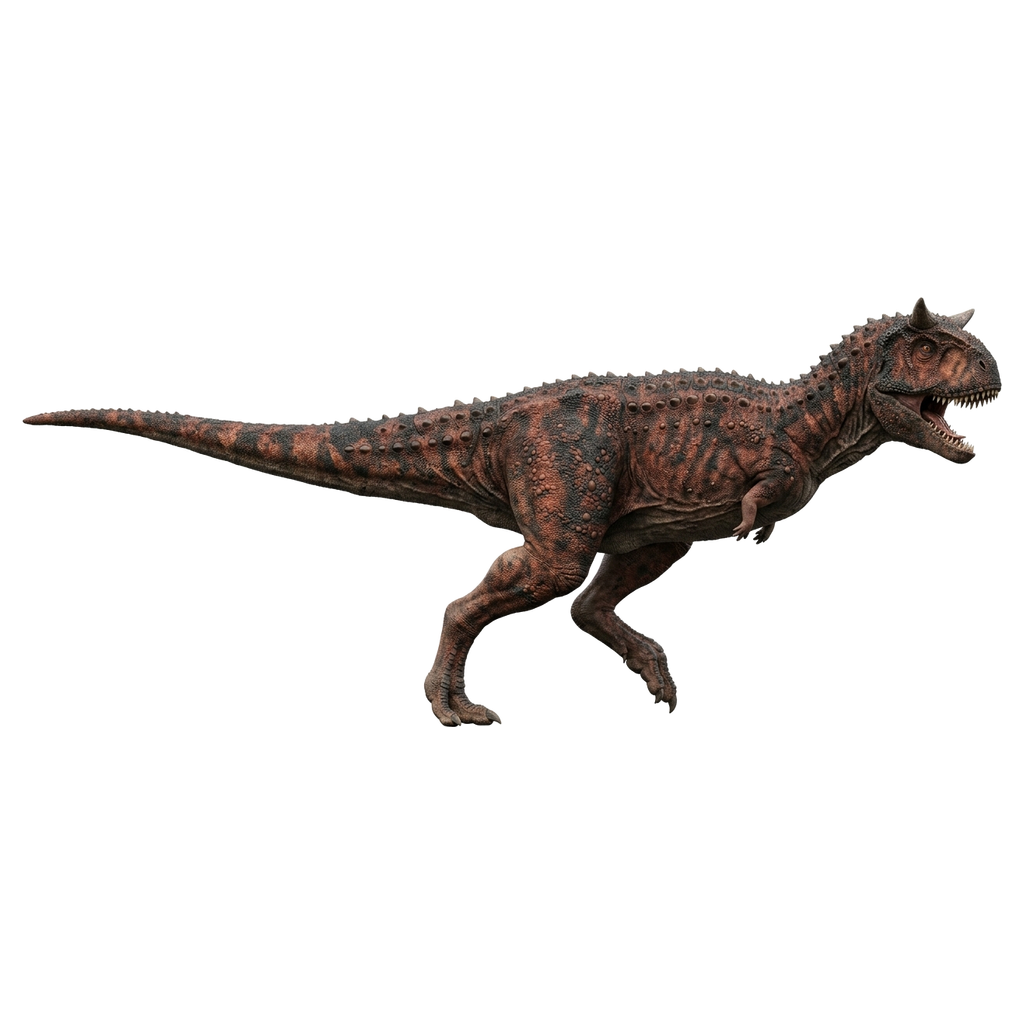
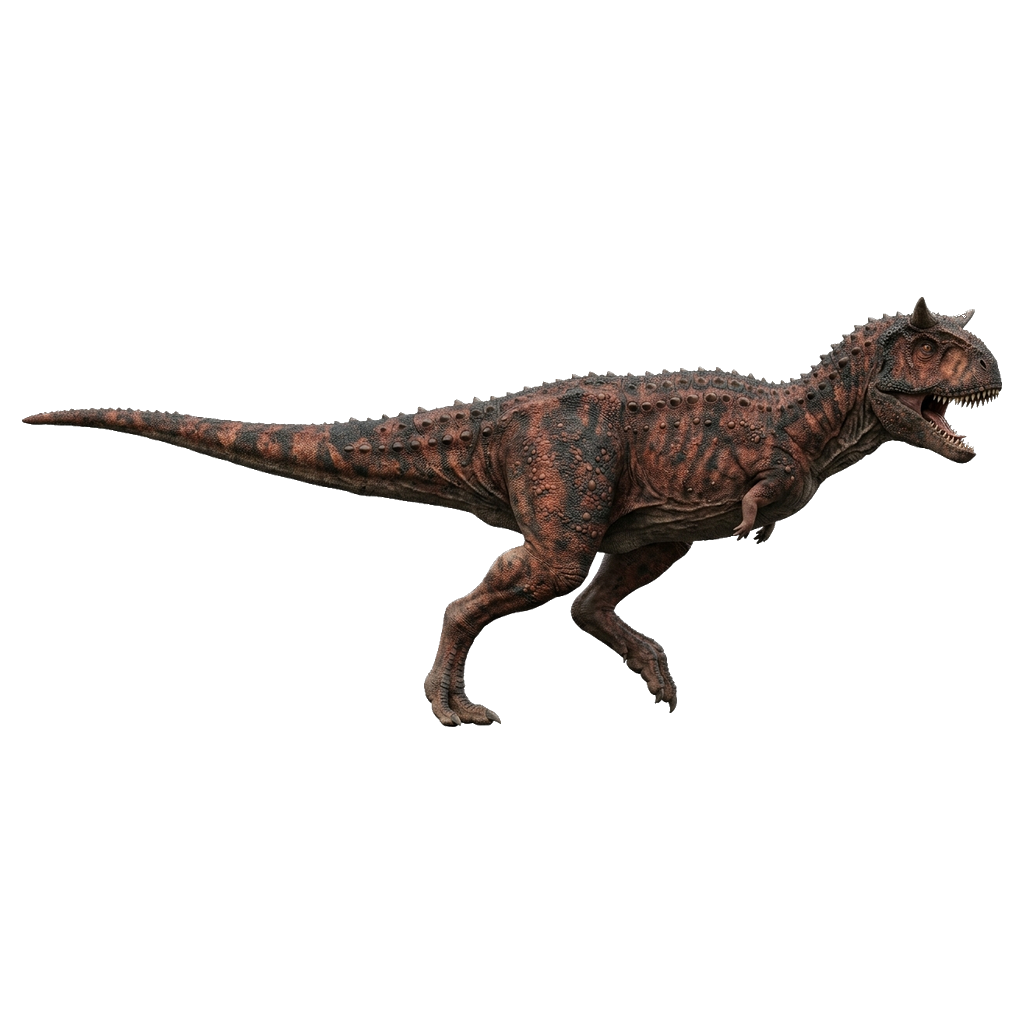
fix: テリジノサウルスの上部見切れ解消（実体描画全高連動）およびカルノタウルス・ディロフォサウルス・テリジノサウルスのエッジ白残り除去

diff --git a/docs/tasks/archive.md b/docs/tasks/archive.md
@@ -19,15 +19,20 @@
 
 ## ✅ 完了済みタスク (Done)
 
-- [x] **リアル対決モード恐竜5種（カルノタウルス、テリジノサウルス、ディロフォサウルス、フクイラプトル、フタバサウルス）のリアル対決アセット追加 ＆ 実寸1:1同期・宿命の対決プリセット拡充** (2026/11/22)
+- [x] **リアル対決モード恐竜5種（カルノタウルス、テリジノサウルス、ディロフォサウルス、フクイラプトル、フタバサウルス）のリアル対決アセット追加 ＆ 実寸1:1同期・宿命の対決プリセット拡充 ＆ エッジ白残り完全除去・テリジノサウルス上部見切れ解消** (2026/11/22)
   - **新規5種のリアルCG透過アセット制作**:
     - カルノタウルス（`carnotaurus_battle.webp` / 目の上の角・極小前肢・疾走ポーズ）
     - テリジノサウルス（`therizinosaurus_battle.webp` / 1m超の巨大鎌爪・羽毛直立威嚇ポーズ）
     - ディロフォサウルス（`dilophosaurus_battle.webp` / 頭頂の二重トサカ・学術的羽毛スマートプロポーション）
     - フクイラプトル（`fukuiraptor_battle.webp` / 日本のメガラプトル類・鋭い第一指鉤爪）
     - フタバサウルス（`futabasaurus_battle.webp` / 日本の首長竜・長大な首とヒレ足の遊泳ポーズ）
+  - **エッジ白残り・輪郭モヤの完全除去（Lanczosリサンプリング白混入対策 ＆ 内部ポケット背景除去）**:
+    - Lanczos3縮小処理時に透明ピクセル（RGB=255）の白が半透明（a=1〜30）として周囲に約6,500px残留していた現象を特定・解消。
+    - 爪や腕・首周りの閉じた白背景ポケットの除去、透過ピクセルのRGB=0初期化、リサイズ後のポストクリーン処理（`a <= 45` ゼロ化、エッジ白色除去・背景色ブレンド最適化）を導入し、完全な背景透過を実現。
+  - **テリジノサウルス上部見切れ（オートフォーカス全高判定）の修正**:
+    - 腕を高く掲げた直立威嚇ポーズ（描画全高7.45m相当）のテリジノサウルスが、背の低い生物（アフリカゾウ3.2m等）との比較時に基準全高5.0mで計算されて上端が見切れていた問題を解消。
+    - 実体描画高さ（`drawnHeightPx`）を導入し、ステージのオートフォーカスが真の頭頂・爪先高さを認識してズーム比率を最適化（上部余白を確保し見切れゼロを達成）。
   - **4ch RGBAロスレス透過 ＆ 自動接地スキャン・実寸1:1同期**:
-    - `scratch/process_batch2_dinosaurs.mjs` により完全背景透過（Alpha=0）、AIマーク消去、1024x1024正方形化、精密自動接地スキャンを実施。
     - 公式全長（`realLength`）と描画全長が100%一致するように `BATTLE_ASSETS`（`contentHeightPx`）および `BONE_CALIBRATED_ASSETS` をキャリブレーション（骨格⇔リアル切替時の差分0%を実現）。
   - **宿命の対決・必見ドリームマッチ（1タップ対決）の拡充**:
     - 「🐂 カルノタウルス vs ティラノサウルス ⚡」
